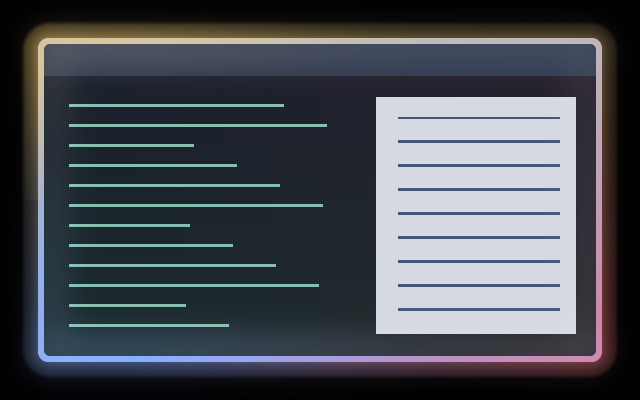
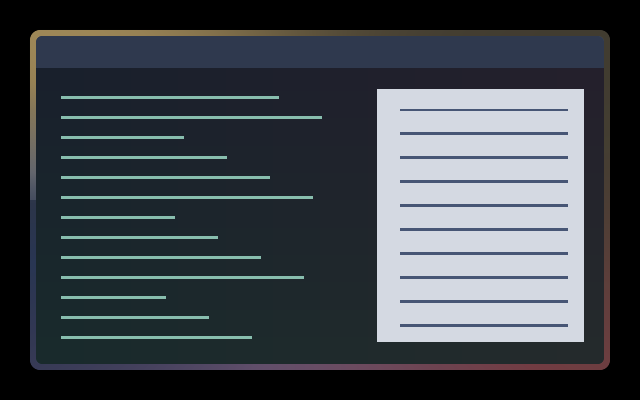
Add spectrum-driven Speaker Ripple and preserve Spectrum dynamics

Changed region(s): [[0.0312, 0.03, 0.9688, 0.96]]

diff --git a/window/speaker-ripple/README.md b/window/speaker-ripple/README.md
@@ -1,0 +1,100 @@
+# Speaker Ripple
+
+Audio-reactive pressure rings kick inward and recoil from all four window
+edges, like a vibrating speaker surround. Bass moves the whole surround;
+individual frequency bands buckle different parts of the rings like an
+equaliser. Mids and treble move finer ripples and change their colours.
+The waves fade before the centre to keep the main content readable. Silence
+or a missing audio feed restores the original image.
+
+![Speaker Ripple responding to synthetic audio attacks and decays](preview.gif)
+
+Preview captured in a private headless Umbriel compositor over synthetic
+window content. The audio spectrum changes while the compositor clock stays
+frozen: all motion comes from those synthetic attacks and decays. This is not
+real music playback. A [still preview](preview.png) is also available.
+
+## Use
+
+Save [effect.toml](effect.toml) and [shader.glsl](shader.glsl) together in
+`~/.config/umbriel/shaders/community/window/speaker-ripple/`, retaining the
+[MIT notice](../../LICENSES/Barrulus-MIT.txt). Merge this into your config:
+
+```toml
+[include]
+files = ["shaders/community/window/speaker-ripple/effect.toml"]
+
+[effects]
+window = "window.speaker-ripple"
+```
+
+Append to an existing include list and merge into existing tables.
+[config.toml](config.toml) contains the same activation example. This is a
+standalone window effect; no border preset or companion is required. Global
+selection affects all windows, including unfocused and fullscreen windows.
+You can instead select it with a `window_effect` window rule; see
+[selection examples](../../README.md#selecting-and-disabling-effects).
+
+## Audio setup
+
+Enable Noctalia's **Settings → Umbriel → Audio → Provide Audio to Umbriel**,
+or run the [standalone analyser](../../tools/README.md#standalone-audio-analyser)
+inside your Umbriel session:
+
+```sh
+python3 tools/audio-analyzer.py --verbose
+```
+
+Run that command from this repository. Use only one provider at a time.
+Selecting the shader does not start audio capture. It uses the current
+64-band `umbriel_audio_spectrum(position)` API, tested with Umbriel `76477c2`;
+the older scalar and bumbriel audio APIs are incompatible.
+
+The low, middle and high groups use bands 0–15, 16–39 and 40–63. Each group's
+response is its mean or one quarter of its peak, whichever is larger, after
+noise rejection and gain. This keeps isolated tones visible. Brightness uses
+a square-root lift; wave positions use the uncompressed levels.
+These are visual intensities; precise frequency ranges depend on the provider.
+The local spectrum runs from bass on the left through mids along the top and
+bottom to treble on the right. Rising levels push crests inward; falling levels
+pull them back. Positions, inward reach, distortion and colours follow the
+current spectrum directly. A held spectrum produces a still image even as time
+passes. Sharp attacks jump; sustained notes hold. Provider smoothing determines
+how sharp those changes are. This is a spectrum visualiser, not a waveform trace
+or a beat detector with stored history.
+
+## Tuning
+
+Edit the constants near the top of [shader.glsl](shader.glsl):
+
+| Control | Default | Effect |
+| --- | --- | --- |
+| `AUDIO_GAIN` | `1.0` | Sensitivity; try `0.5`–`2.0`. |
+| `NOISE_FLOOR` | `0.005` | Per-band silence threshold; keep between `0` and `0.1`. |
+| `REACH` | `170.0` | Maximum inward reach in logical pixels; also capped at 44% of the shorter window dimension. Keep positive. |
+| `WAVELENGTH` | `32.0` | Ring spacing in logical pixels; try `20`–`60`. |
+| `JUMP_DISTANCE` | `90.0` | Audio-driven crest excursion in logical pixels, capped at 30% of the shorter dimension. Try `40`–`120`; larger makes peaks jump farther. |
+| `DISPLACEMENT` | `3.0` | Content vibration in logical pixels; `0` keeps just the coloured rings. Try `0`–`6`. |
+| `COLOUR_STRENGTH` | `0.62` | Colour intensity; try `0.2`–`0.9`, or `0` for distortion only. |
+| `CORNER_SOFTNESS` | `18.0` | Softens the meeting of waves at corners; try `8`–`30`, keep positive. |
+
+The preset defaults to `palette = false` for vivid spectrum-responsive colours.
+Set `palette = true` in [effect.toml](effect.toml) to use theme colours instead;
+audio still shifts the palette position. Window presets do not accept TOML
+`speed`, `opacity` or `animated` controls. Global `[effects] max_fps` can limit
+effect-driven redraws; `in_capture = true` includes this effect in captures.
+
+## Compatibility and cost
+
+One pass per affected window, up to two content samples and a bounded scan of
+64 spectrum bands plus one local spectrum lookup per fragment. No previous-frame
+buffers are used. Source alpha is preserved. There is no animation clock;
+audio updates drive redraws. Large windows and global selection increase cost;
+hardware performance has not been benchmarked.
+
+See [validation](../../VALIDATION.md) for checks and limitations.
+
+## Attribution
+
+Author/contributor: Barrulus. [MIT](../../LICENSES/Barrulus-MIT.txt).
+Contributed on 2026-10-26.

diff --git a/border/spectrum/README.md b/border/spectrum/README.md
@@ -1,14 +1,18 @@
 # Spectrum
 
 An audio-driven colour halo around the focused window. The angle around the
-border maps the low-to-high spectrum, while overall activity lifts the ring.
-It returns to the native border during silence; it has no clock-driven pulse.
-The configured compositor light can still glow from that native border.
+border maps the low-to-high spectrum. Each region's brightness, colour and
+thin outward extension follow its own band; overall activity adds only a
+small contribution. Dark theme colours are lifted while retaining their hue.
+With an audio feed, silence dims the native border to 12%, leaving room for
+musical peaks to brighten it. A missing or disconnected feed restores the
+native border. It has no clock-driven pulse.
+There is no compositor light or broad blur around the ring.
 
 ![Spectrum with a synthetic audio feed](preview.png)
 
 Native Umbriel capture over synthetic window content with a synthetic spectrum
-and the default theme palette. Includes compositor light; this is not a capture
+and the default theme palette. This is not a capture
 of music playing on a desktop.
 
 ## Use
@@ -43,27 +47,32 @@ version. Old `[effects.audio.sources]` and per-preset `audio` settings are no
 longer needed. All effects share the externally supplied spectrum.
 
 The port estimates activity from the mean of all 64 bands or one quarter of
-their peak, whichever is greater. It applies a square-root response to retain
-quiet detail. This replaces the original RMS/envelope inputs; it is a visual
+their peak, whichever is greater. Each region mixes 90% local-band intensity
+with 10% overall activity, linearly after noise rejection and gain. There is
+no square-root or saturating response curve: moderate audio leaves room for
+peaks, and one loud band does not light the entire perimeter. This is a visual
 estimate, not calibrated loudness. Band positions do not promise fixed Hz.
 
 ## Tuning
 
 | Control | Default | Effect |
 | --- | --- | --- |
-| GLSL `AUDIO_GAIN` | `1.0` | Response strength; try `0.5`–`2.0`. High values saturate. |
+| GLSL `AUDIO_GAIN` | `1.0` | Response strength; keep near `1.0` to retain dynamics. Higher values clip peaks. |
 | GLSL `NOISE_FLOOR` | `0.005` | Per-band dead zone; use `0` for maximum sensitivity, keep below `1`. |
+| GLSL `CORE_WIDTH` | `2.0` | Maximum outward bright core width in logical pixels, scaled with the local band. |
+| GLSL `HALO_REACH` | `8.0` | Soft halo cutoff in logical pixels; keep equal to preset padding and above `2`. |
+| GLSL `MIN_BRIGHTNESS` | `0.9` | Minimum brightest RGB channel for theme colours; `0` keeps their original brightness. |
+| GLSL `IDLE_BORDER` | `0.12` | Native ring underneath the audio colour; lower makes quiet passages dimmer. Use `0`–`1`. |
 | TOML `palette` | `true` | Use theme accents, warning and error colours. False uses blue-cyan. |
-| TOML `padding` | `24` | Space for the shader halo, which fades between 18 and 24 logical pixels. |
+| TOML `padding` | `8` | Space for the short shader halo, which fades between 6 and 8 logical pixels. |
 | TOML `animated` | `false` | Audio changes trigger redraws without a shader clock. |
-| TOML light `spread` / `intensity` / `threshold` | `48` / `1.0` / `0.35` | Compositor glow. Remove the whole light table to disable it. |
 
 Changing `speed` does nothing: this shader never reads time. Save shader edits
 to reload them; see [reloading edits](../../README.md#reloading-edits).
 
 ## Compatibility and cost
 
-One border pass plus compositor light and blur; no feedback buffers. When a
+One border pass, without compositor light, blur or feedback buffers. When a
 feed is available, each fragment samples all 64 band positions and its local
 angular band. Without a feed it returns the native sample immediately.
 An unchanged spectrum does not request animation frames. See

diff --git a/VALIDATION.md b/VALIDATION.md
@@ -1,5 +1,50 @@
 # Validation and limitations
 
+## Speaker Ripple spectrum-driven motion (2026-10-26)
+
+Speaker Ripple maps bass and the local perimeter spectrum directly to the
+main crest positions, with separate mid/treble excursions for
+finer crests. Inward reach changes with energy; peaks push in and falling
+levels recoil. Wave positions use linear group intensities while brightness
+keeps a square-root response. No history buffers or beat detection are used.
+
+Validated in native Umbriel `76477c2` with Mesa software rendering and a
+version-2 synthetic spectrum producer. All 135 installation examples in the
+publication checkout and the combined library validate. Across 640×400, 400×640 and 320×240 outputs, 66
+captures verify silence/no-feed restoration, noise rejection, isolated bands,
+increasing levels and different low/mid/high spectral patterns. Advancing time
+with held audio now produces byte-identical images. Changing audio with time
+frozen changes the image; returning to the original levels reproduces the
+original resting frame exactly. The resting, bass-kick and mixed-spectrum
+captures were visually inspected. A 36-frame animated preview uses changing
+synthetic spectra and a single frozen clock throughout.
+
+Actual playback timing depends on the provider's update rate and smoothing.
+Real-music feel, hardware performance, HDR, transparent input and fractional
+scaling remain unverified for this revision.
+
+## Spectrum thin ring and dynamics correction (2026-10-26)
+
+Retuned Spectrum to keep the border thin and preserve changes in audio levels.
+Gain is 1.0, with a linear 90% local-band / 10% overall response, no square
+roots or exponential saturation. The outward
+bright core reaches at most two logical pixels, the short halo is cut at eight,
+and compositor light is removed. With a connected feed, the underlying native
+ring is dimmed to 12% so it cannot hide falling levels. Missing or disconnected
+audio restores the normal native ring; connected silence deliberately stays dim.
+
+With Umbriel `76477c2` and Mesa software rendering, 44 native captures cover
+640×400 and 400×640 outputs. Noise and return to silence match connected silence;
+disconnect matches the original no-feed image. Isolated bands remain visible,
+and equal-energy low/mid/high blocks produce distinct regions of the border.
+Levels 0.02, 0.1, 0.4 and 0.8 produce increasing differences from silence.
+Additional 0.3, 0.6 and 0.95 checks retain substantial changes between ordinary
+and peak levels, rather than flattening them. Held audio with a frozen clock is
+deterministic. The updated preview and isolated low-band capture were visually
+inspected. Configuration validation passed for all 135 publication examples
+and the combined library; the installed preset reloaded and reports compiled. Real-music feel
+still needs user assessment; no hardware performance claim is made.
+
 ## Music Smoke port (2026-10-26)
 
 Ported bumbriel's `window.music-smoke` from `1dafcac5` to the 64-band spectrum

diff --git a/border/README.md b/border/README.md
@@ -4,7 +4,7 @@
 
 | Preview | Effect | Description |
 | --- | --- | --- |
-| <img src="spectrum/preview.png" width="160" alt="Spectrum preview"> | [Spectrum](spectrum/) | Audio-driven colour halo with angular frequency detail; returns to the native ring during silence. |
+| <img src="spectrum/preview.png" width="160" alt="Spectrum preview"> | [Spectrum](spectrum/) | Thin audio-driven colour ring with angular frequency detail; dims in silence and restores the native ring when disconnected. |
 | <img src="fractal-flow/preview.png" width="160" alt="Fractal Flow preview"> | [Fractal Flow](fractal-flow/) | A rolling fractal front unfolds, splits and merges around the focused window and its inward overlay. |
 | <img src="diya-lights/preview.png" width="160" alt="Diya Lights preview"> | [Diya Lights](diya-lights/) | Small oil lamps straddling the border, with multicoloured sparkling lights and a matching inward overlay. |
 | <img src="accent-pulse/preview.png" width="160" alt="accent-pulse preview"> | [accent-pulse](accent-pulse/) | A soft pulse travels around the focused border, tinted by the theme accent. |

diff --git a/window/README.md b/window/README.md
@@ -4,6 +4,7 @@
 
 | Preview | Effect | Description |
 | --- | --- | --- |
+| <img src="speaker-ripple/preview.png" width="160" alt="Speaker Ripple preview"> | [Speaker Ripple](speaker-ripple/) | Coloured pressure rings kick inward and recoil with the music; individual frequency bands buckle the waves like an equaliser. |
 | <img src="fractal-flow-overlay/preview.png" width="160" alt="Fractal Flow Overlay preview"> | [Fractal Flow Overlay](fractal-flow-overlay/) | The inward half of Fractal Flow, sharing its coordinates, colours and clock. |
 | <img src="fractal-veil/preview.png" width="160" alt="Fractal Veil preview"> | [Fractal Veil](fractal-veil/) | Small, faint kaleidoscope rosettes rotate and gently change across the window. |
 | <img src="diya-glow-overlay/preview.png" width="160" alt="Diya Glow preview"> | [Diya Glow](diya-glow-overlay/) | Inward halves of the Diya Lights lamps and coloured lights; automatically selected by the border. |

diff --git a/README.md b/README.md
@@ -48,6 +48,11 @@ blood-red sparks and fluttering bats.
 
 ## Compatibility
 
+[**Speaker Ripple**](window/speaker-ripple/) adds an audio visualiser inside
+the window: pressure rings kick inward and recoil with the spectrum, with
+individual frequency bands bending different sections. It uses the same
+64-band audio feed as the presets below.
+
 [Spectrum](border/spectrum/), [Music Radiance](cursor/music-radiance/) and
 [Music Smoke](window/music-smoke/) port bumbriel's audio halo, rainbow cursor
 and rising window smoke to the current 64-band spectrum API,
